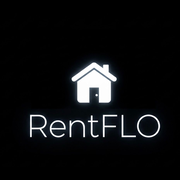
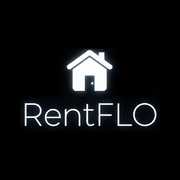
Update app branding and ensure proper display on mobile devices
Updates PWA branding assets to use new logo, implements safe area insets for iOS, and adds cache-busting query strings to asset paths in index.html and manifest.json.

Replit-Commit-Author: Agent
Replit-Commit-Session-Id: 6fbe86f7-4913-442c-901d-60b16c3101e2
Replit-Commit-Checkpoint-Type: intermediate_checkpoint
Replit-Commit-Event-Id: b5e94a0c-e63f-4d69-80fe-8ffa2cbddb8b
Replit-Commit-Screenshot-Url: https://storage.googleapis.com/screenshot-production-us-central1/0745b5e9-6751-4164-a013-453fa97886af/6fbe86f7-4913-442c-901d-60b16c3101e2/hILXh1m
Replit-Helium-Checkpoint-Created: true

Changed region(s): [[0.1111, 0.25, 0.9167, 0.7778]]

diff --git a/client/index.html b/client/index.html
@@ -4,9 +4,9 @@
     <meta charset="UTF-8" />
     <meta name="viewport" content="width=device-width, initial-scale=1.0, maximum-scale=1, viewport-fit=cover" />
     <title>RentFLO - Never Chase Rent</title>
-    <link rel="icon" type="image/png" href="/favicon.png?v=2" />
-    <link rel="apple-touch-icon" sizes="180x180" href="/apple-touch-icon.png?v=2" />
-    <link rel="manifest" href="/manifest.json?v=2" />
+    <link rel="icon" type="image/png" href="/favicon.png?v=final_v1" />
+    <link rel="apple-touch-icon" sizes="180x180" href="/apple-touch-icon.png?v=final_v1" />
+    <link rel="manifest" href="/manifest.json?v=final_v1" />
     <meta name="theme-color" content="#000000" />
     <meta name="apple-mobile-web-app-capable" content="yes" />
     <meta name="apple-mobile-web-app-status-bar-style" content="black-translucent" />
@@ -28,6 +28,7 @@
         border-bottom: 1px solid rgba(255, 255, 255, 0.1);
         box-shadow: 0 2px 8px rgba(0, 0, 0, 0.3);
         padding: 12px 24px;
+        padding-top: calc(12px + env(safe-area-inset-top));
         display: flex;
         align-items: center;
         justify-content: space-between;
@@ -140,7 +141,7 @@
     <!-- i18n Language Switcher Header -->
     <header class="i18n-header" data-testid="header-i18n">
       <div class="logo">
-        <img src="/icon-192x192.png?v=2" alt="RentFLO" class="logo-img" data-testid="logo-img" />
+        <img src="/house-logo.png?v=final_v1" alt="RentFLO" class="logo-img" data-testid="logo-img" width="32" height="32" />
         <span>RentFLO</span>
       </div>
       <div class="language-switcher">
@@ -155,7 +156,7 @@
 
     <div id="root">
       <div id="splash-screen" style="position:fixed;inset:0;background:#000;display:flex;flex-direction:column;align-items:center;justify-content:center;z-index:99999;transition:opacity 0.3s ease-out;">
-        <img src="/icon-192x192.png?v=2" alt="RentFLO" style="width:80px;height:80px;object-fit:contain;margin-bottom:24px;animation:splashPulse 1.5s ease-in-out infinite;" />
+        <img src="/icon-512x512.png?v=final_v1" alt="RentFLO" style="width:120px;height:120px;object-fit:contain;margin-bottom:24px;animation:splashPulse 1.5s ease-in-out infinite;" />
         <div style="color:#fff;font-family:'Inter',sans-serif;font-size:28px;font-weight:700;letter-spacing:-1px;">RentFLO</div>
         <div style="color:#71717a;font-family:'Inter',sans-serif;font-size:12px;font-weight:500;margin-top:8px;text-transform:uppercase;letter-spacing:2px;">Loading</div>
       </div>

diff --git a/client/src/pages/LandingPage.tsx b/client/src/pages/LandingPage.tsx
@@ -1,6 +1,6 @@
 import { ArrowRight, CheckCircle2 } from "lucide-react";
 import { useI18n } from "@/hooks/use-i18n";
-import logoImg from "@assets/logo_1771118074315.jpg";
+import houseLogoImg from "@assets/WhatsApp_Image_2026-02-15_at_5.46.47_AM_(1)_1771120129394.jpeg";
 
 export default function LandingPage() {
   const { t } = useI18n();
@@ -10,7 +10,7 @@ export default function LandingPage() {
       {/* Nav */}
       <nav className="fixed w-full z-50 px-6 py-6 flex justify-between items-center backdrop-blur-sm border-b border-white/5">
         <div className="flex items-center gap-2">
-          <img src={logoImg} alt="RentFLO" className="w-8 h-8 object-contain" data-testid="logo-landing" />
+          <img src={houseLogoImg} alt="RentFLO" className="w-8 h-8 object-contain" data-testid="logo-landing" />
           <span className="text-2xl font-bold tracking-tighter">RentFLO</span>
         </div>
         <a href="/api/login" className="px-6 py-2 bg-white text-black font-medium text-sm hover:bg-zinc-200 transition-colors rounded-none" data-testid="link-login" data-i18n="login">

diff --git a/client/src/components/Navigation.tsx b/client/src/components/Navigation.tsx
@@ -1,7 +1,7 @@
 import { Link, useLocation } from "wouter";
 import { LayoutDashboard, Home, LogOut, Wallet, Wrench, Receipt, Loader2 } from "lucide-react";
 import { useAuth } from "@/hooks/use-auth";
-import logoImg from "@assets/logo_1771118074315.jpg";
+import houseLogoImg from "@assets/WhatsApp_Image_2026-02-15_at_5.46.47_AM_(1)_1771120129394.jpeg";
 
 export function Navigation() {
   const [location] = useLocation();
@@ -50,7 +50,7 @@ export function Navigation() {
       <div className="flex flex-col gap-2">
         <div className="px-3 md:px-6 mb-12">
           <Link href="/" className="flex items-center gap-2 cursor-pointer">
-            <img src={logoImg} alt="RentFLO" className="w-10 h-10 object-contain" data-testid="link-logo-img" />
+            <img src={houseLogoImg} alt="RentFLO" className="w-10 h-10 object-contain" data-testid="link-logo-img" />
             <span className="text-xl font-bold tracking-tighter text-white hidden md:block" data-testid="link-logo">RentFLO</span>
           </Link>
         </div>

diff --git a/client/src/components/LegalHeader.tsx b/client/src/components/LegalHeader.tsx
@@ -1,6 +1,6 @@
 import { Link } from "wouter";
 import { ArrowLeft } from "lucide-react";
-import logoImg from "@assets/logo_1771118074315.jpg";
+import houseLogoImg from "@assets/WhatsApp_Image_2026-02-15_at_5.46.47_AM_(1)_1771120129394.jpeg";
 
 export function LegalHeader() {
   return (
@@ -14,7 +14,7 @@ export function LegalHeader() {
         <span className="text-sm font-medium uppercase tracking-wider" style={{ fontFamily: 'Inter, sans-serif' }}>Back to Home</span>
       </Link>
       <Link href="/" className="flex items-center gap-2" data-testid="link-legal-logo">
-        <img src={logoImg} alt="RentFLO" className="w-7 h-7 object-contain" />
+        <img src={houseLogoImg} alt="RentFLO" className="w-7 h-7 object-contain" />
         <span className="text-lg font-bold tracking-tighter text-white" style={{ fontFamily: 'Inter, sans-serif' }}>RentFLO</span>
       </Link>
     </header>
